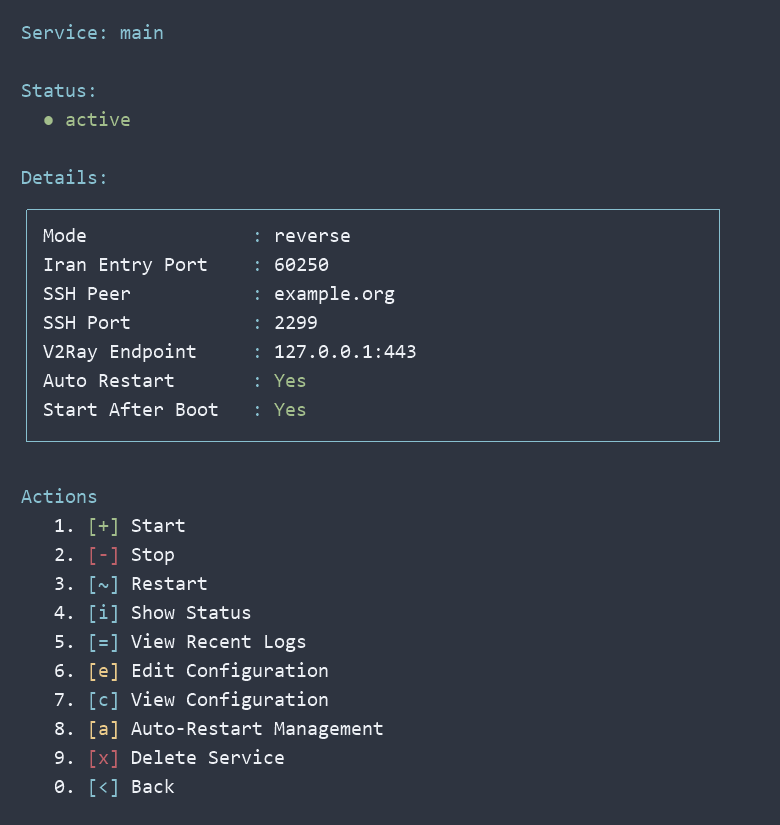
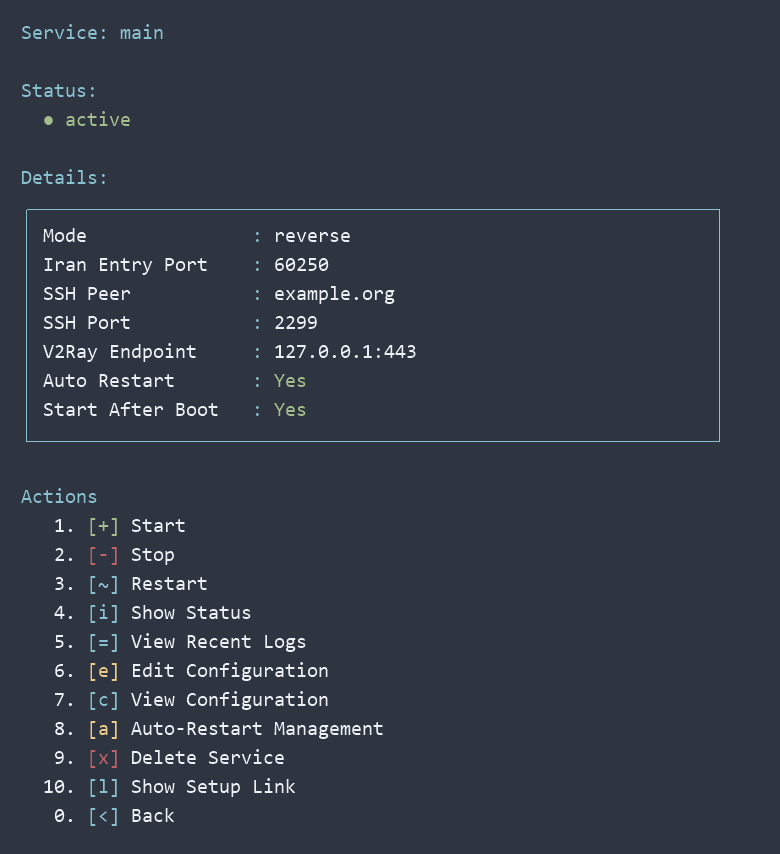
Transfer receiver setup through a validated public-key link

diff --git a/README.md b/README.md
@@ -22,12 +22,14 @@ Prompts support UTF-8 editing with Backspace, Delete and arrow keys. If you eras
   2) Setup Direct          Iran connects to Kharej
   3) Manage Tunnels        select a service, view details and actions
   4) Public Key            generate or copy your public key
+  L) Import Setup Link     configure this server from a peer setup link
   0) Exit                  close this menu
 ```
 
 ## Features
 
 - Guided setup: choose Reverse or Direct, then choose Iran or Kharej.
+- A setup link and ready-to-run command transfer the receiver settings and public key automatically.
 - Missing tools are installed automatically during setup; existing tools are reused.
 - Dedicated SSH account limited to the requested forwarding operation, with shell sessions disabled.
 - Reuses existing Ed25519 keys and asks you to compare host key fingerprints.
@@ -68,6 +70,18 @@ Client -> Iran:8443 -> SSH tunnel -> Kharej:127.0.0.1:443 -> VLESS
 
 At **Config port on kharej**, enter the VLESS inbound port, not the web panel port. The backend address is fixed to `127.0.0.1` on Kharej, so there is no backend-address question. The service must listen there or have its container port published on the host. The Iran entry port and the config port may differ. The restricted account requires reverse entry ports to be **1024 or higher**.
 
+## Setup with a link
+
+For setup with one link, **start on Kharej in Reverse mode**, or **Iran in Direct mode**. Complete the initiator setup using the receiver address, SSH port, Iran entry port and config port on Kharej. The receiver's ordinary SSH must be reachable so you can verify its host fingerprints. Registering the tunnel account can happen later; the installed initiator waits and retries.
+
+At the end, the initiator prints a **`ssh-tunnel://v1/...` Setup Link** and a command that downloads this script and imports the link on the receiver. On the other server, run that command as root, or choose **L: Import Setup Link** and paste the link. The mode, profile name, ports and public key are filled automatically. Review the displayed settings and answer **Create Tunnel?**; the waiting initiator then connects automatically.
+
+The link contains receiver settings and the **public key only**. The private key stays on the initiator. Export derives the public part from the actual private key, so a stale `.pub` file is not copied into the link. Links are decoded and validated as data; imported content is never evaluated as shell code. Existing receiver profiles can accept a link with the same forwarding permission to update the key. Changed receiver ports require removing the old profile before importing.
+
+For an existing initiator, select its service in **Manage Tunnels** and choose **10: Show Setup Link**. This generates a fresh link from the current saved settings. The one-link workflow starts on the initiator; manual setup below still supports completing either side last.
+
+SSH itself does not require matching local service names. This manager derives the receiver account as `svt-NAME`, so its manual workflow requires the same profile name on both servers. Importing a setup link fills that name automatically.
+
 ## Reverse setup
 
 1. Run the script on both machines. Required tools are prepared automatically when you start setup.
@@ -100,6 +114,7 @@ Kharej must allow its SSH port, and Iran must allow the client entry port. The b
 | 2 | Set up Direct |
 | 3 | Manage Tunnels: service table and actions |
 | 4 | Public Key |
+| L | Import Setup Link |
 | 0 | Exit |
 
 Option **3** shows **Service Name, Status, Mode and Auto Restart**. Enter a row number to open that service's details and actions. Enter `r` to refresh the table or `0` to return. Selecting a row does not delete anything.
@@ -115,6 +130,7 @@ The details box shows the Iran entry port, SSH peer/port, V2Ray endpoint, auto-r
 | 7 | View Configuration without showing private key contents |
 | 8 | Auto-Restart Management using systemd |
 | 9 | Delete Service after confirming its name |
+| 10 | Show Setup Link for the other server |
 | 0 | Back to the table |
 
 Start/Stop/Restart, Edit and Auto-Restart controls appear on the server running the dedicated tunnel service. On an SSH receiver, status, logs, configuration and deletion are available; shared sshd is not stopped or restarted from this page. `configured` means receiver settings are prepared. New services show `Waiting` while trying to establish SSH and `active` once their SSH control connection is available. Older services without a control socket still report process status. Test with a real client to confirm backend health. `Auto Restart: Remote` means its policy is managed on the other server.
@@ -177,6 +193,7 @@ bash tests/dependencies.sh
 bash tests/table.sh
 bash tests/service-menu.sh
 bash tests/setup-order.sh
+bash tests/setup-link.sh
 bash tests/receiver-key.sh
 bash tests/removal.sh
 sudo bash tests/integration.sh
@@ -184,11 +201,11 @@ sudo bash tests/systemd-order.sh
 sudo bash tests/recreate.sh
 ```
 
-The input tests check UTF-8 corrections and numeric answers, including real terminal editing with the kernel's UTF-8 erase setting disabled. The dependency and service-menu tests mock package managers/systemctl, checking automatic installation, service selection, controls, editing rollback, auto-restart management and deletion without touching shared sshd or exposing private keys. The setup-order test checks that a failed initial SSH test installs a retrying service, and that canceled host verification still prevents installation. The receiver-key test checks replacement, backups, unchanged forwarding permissions, rejection of invalid keys, and keeping the existing key with Enter. The removal test covers partial profiles, waiting for account processes, SSH validation rollback and service-stop failures.
+The input tests check UTF-8 corrections and numeric answers, including real terminal editing with the kernel's UTF-8 erase setting disabled. The dependency and service-menu tests mock package managers/systemctl, checking automatic installation, service selection, controls, editing rollback, auto-restart management and deletion without touching shared sshd or exposing private keys. The setup-order test checks that a failed initial SSH test installs a retrying service, and that canceled host verification still prevents installation. The setup-link test checks data round-tripping, actual public-key derivation, and rejection of malformed/duplicate/unknown fields and shell expressions. The receiver-key test checks replacement, backups, unchanged forwarding permissions, rejection of invalid keys, and keeping the existing key with Enter. The removal test covers partial profiles, waiting for account processes, SSH validation rollback and service-stop failures.
 
 The integration tests need OpenSSH, Python 3, curl, iproute and systemd tools. `integration.sh` creates a temporary localhost SSH daemon and tests real HTTP forwarding in both directions, rejection of shell sessions, timeout logging and menu recovery; ports `32222` through `32226` must be free. `systemd-order.sh` additionally needs running systemd and free ports `32322` through `32325`. It installs temporary, uniquely named services, verifies real forwarding when either side finishes last (including reconnecting after replacing a stale receiver key), and cleans up its own units and boot links. These tests do not modify production sshd configuration or accounts. VPS connectivity and production capacity are not covered by these local tests.
 
-`recreate.sh` requires root, running systemd and free ports `32422` through `32425`. It creates its own temporary account, home directory, SSH daemon and tunnel unit. It tests real forwarding, deletes both profiles and rebuilds using the same name in both modes, including a process that ignores TERM. It removes only its temporary account/unit and leaves production SSH configuration untouched.
+`recreate.sh` requires root, running systemd and free ports `32422` through `32425`. It creates its own temporary account, home directory, SSH daemon and tunnel unit. It tests real forwarding, deletes both profiles and rebuilds using the same name in both modes, including a process that ignores TERM. The second cycle creates the receiver entirely from a setup link, with only the final creation confirmation. It removes only its temporary account/unit and leaves production SSH configuration untouched.
 
 ## License
 

diff --git a/README-fa.md b/README-fa.md
@@ -63,6 +63,18 @@ sudo bash ssh-tunnel.sh
 
 مدیریت Auto Restart سیاست ریاستارت systemd همین تونل را تغییر میدهد. اعمال تغییر روی تونل فعال، پس از تأیید آن را ریاستارت میکند. این گزینه از اجرای خودکار پس از بوت جداست.
 
+## راهاندازی با لینک
+
+برای راهاندازی با یک لینک، در **ریورس ابتدا خارج** و در **مستقیم ابتدا ایران** را تنظیم کنید. آدرس و پورت SSH دریافتکننده، پورت ورودی ایران و پورت کانفیگ خارج را وارد کنید و اثر انگشت SSH را بررسی کنید. SSH معمولی دریافتکننده باید قابلدسترسی باشد؛ حساب مخصوص تونل میتواند بعداً آماده شود و سرویس نصبشده منتظر میماند.
+
+در پایان، یک **Setup Link با قالب `ssh-tunnel://v1/...`** و یک دستور آمادهٔ دریافت و اجرای اسکریپت روی سمت مقابل نمایش داده میشود. روی سمت مقابل، آن دستور را با root اجرا کنید یا گزینهٔ **L: Import Setup Link** را بزنید و لینک را Paste کنید. حالت، نام تونل، پورتها و کلید عمومی خودکار پر میشوند؛ فقط تنظیمات نمایشدادهشده را بررسی و **Create Tunnel?** را تأیید کنید. بعد از آمادهشدن دریافتکننده، سرویس منتظر خودکار وصل میشود.
+
+لینک فقط تنظیمات و **کلید عمومی** را دارد؛ کلید خصوصی روی شروعکننده میماند. کلید عمومیِ لینک مستقیماً از کلید خصوصی واقعی استخراج میشود، بنابراین فایل `.pub` قدیمی وارد لینک نمیشود. محتوای لینک بهعنوان داده اعتبارسنجی میشود و هیچ بخشی از آن بهصورت کد شل اجرا نمیشود.
+
+برای تونل موجود، در **Manage Tunnels ← انتخاب سرویس ← ۱۰: Show Setup Link** لینک تازه را از تنظیمات فعلی بگیرید. اگر دریافتکننده از قبل با همان مجوز فوروارد ساخته شده، لینک میتواند کلیدش را بهروز کند؛ برای پورت متفاوت، ابتدا پروفایل قبلی را حذف کنید. روش یکلینکی از شروعکننده آغاز میشود؛ روش دستی همچنان اجازه میدهد هر طرف آخر آماده شود.
+
+یکسانبودن نامها الزام SSH نیست. این اسکریپت حساب مقصد را بهشکل `svt-NAME` از نام پروفایل میسازد؛ به همین دلیل در روش دستی، نام دو سمت باید یکسان باشد. روش لینک، نام را خودکار هماهنگ میکند.
+
 ## ریورس
 
 خارج اتصال SSH را به ایران آغاز میکند. کاربر به ایران وصل میشود و ویتوری روی خارج میماند.
@@ -149,3 +161,5 @@ systemctl disable --now ssh-v2ray-main.service
 آزمون ترتیب راهاندازی با سرویس واقعی systemd، برای مستقیم و ریورس انجام میشود: سرویس قبل از ثبت کلید روی سمت مقابل نصب میشود و بعد از ثبت کلید، بدون اجرای دوبارهٔ Setup، اتصال و انتقال HTTP بررسی میشوند. حالت آمادهبودن دریافتکننده از ابتدا نیز تست میشود.
 
 آزمون حذف و ساخت دوباره با حساب اختصاصی واقعی SSH و systemd انجام میشود؛ در مستقیم و ریورس، هر دو پروفایل پاک و با همان نام دوباره ساخته میشوند و انتقال HTTP تست میشود. خروج کامل پردازشهای حساب، حذف کلید و خانهٔ حساب، تنظیمات SSH، سرویس و سوکت نیز بررسی میشوند. این آزمون فقط حساب و سرویس موقت خودش را میسازد و تنظیمات SSH اصلی میزبان را تغییر نمیدهد.
+
+در چرخهٔ دوم آزمون، سمت دریافتکننده فقط با واردکردن لینک ساخته میشود و هیچ سؤال جداگانهای برای نام، پورت یا کلید ندارد. اعتبارسنجی لینک، رد ورودی خراب و استخراج کلید عمومی از کلید خصوصی واقعی نیز تست میشوند.
